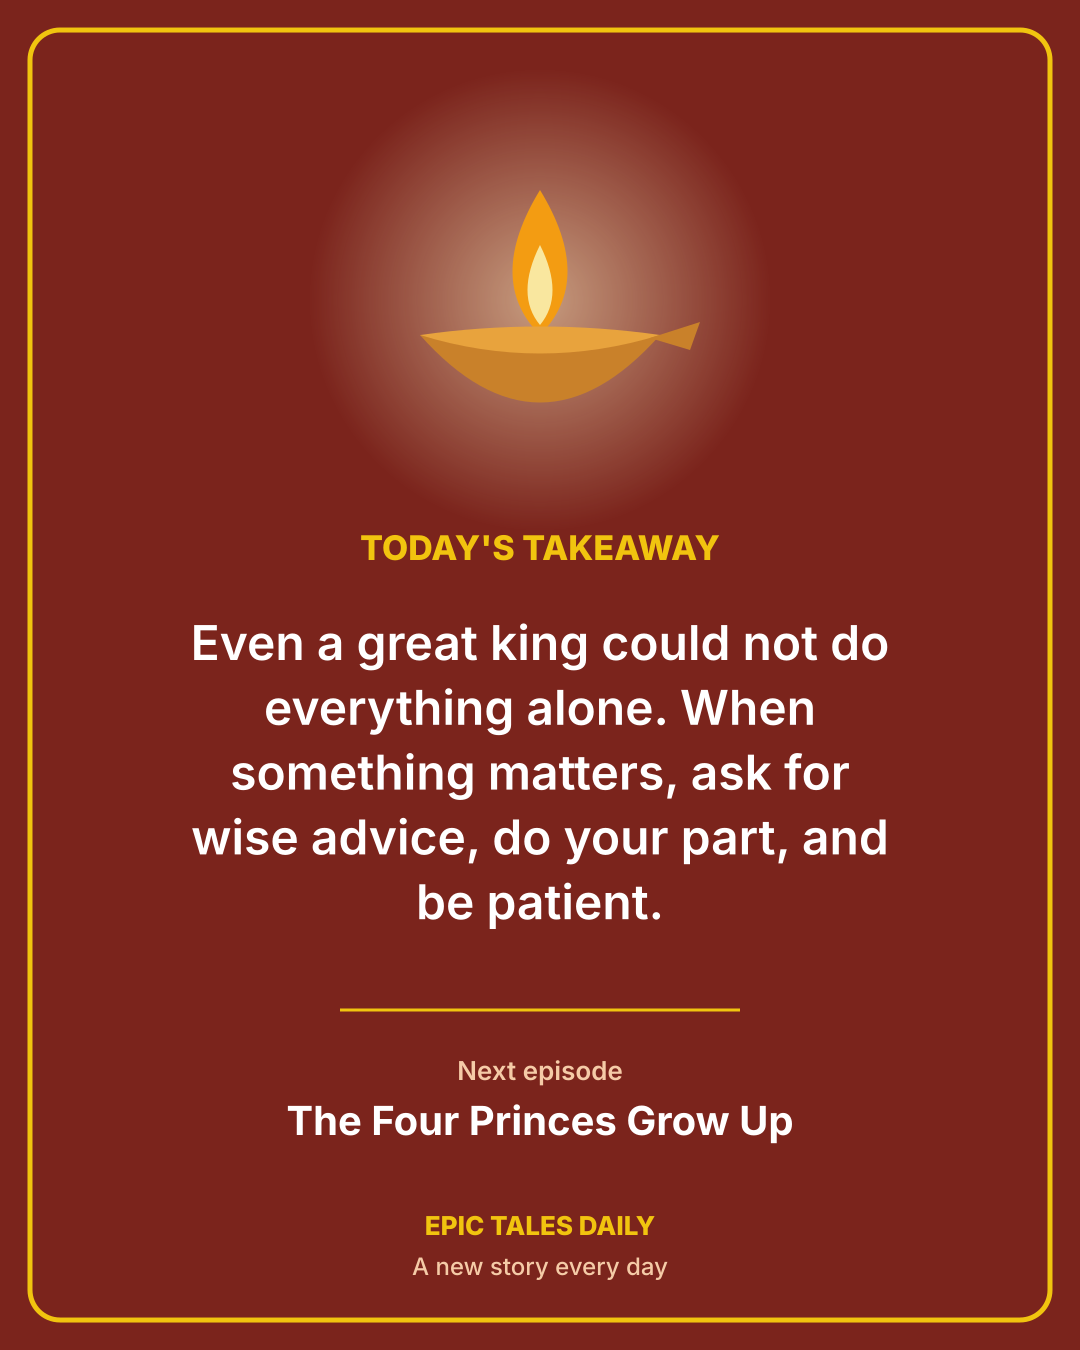
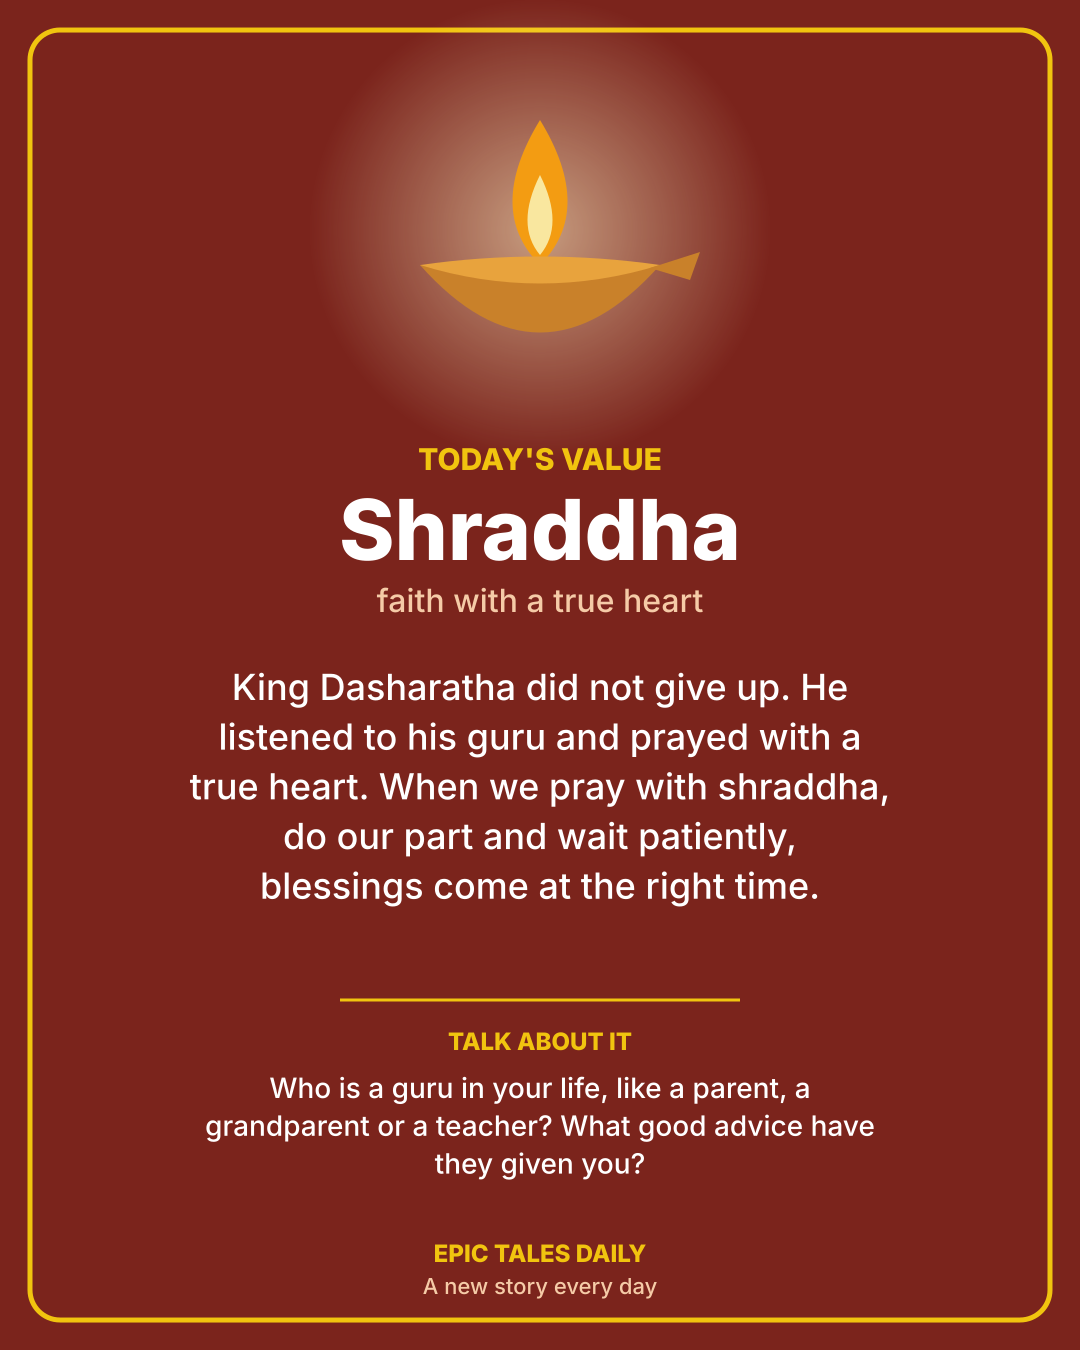
Episode 1: teach a named Hindu value with a question for children
The closing lesson is now 'Today's value: Shraddha', written for children,
with a 'Talk about it' question. The publisher and the social closing card
use the new fields.

Claude-Session: https://claude.ai/code/session_015fo28Ltu1MvLdBiUU7PubM

Changed region(s): [[0.1833, 0.0311, 0.825, 0.6844], [0.1833, 0.7467, 0.7944, 0.8711], [0.3667, 0.9022, 0.6111, 0.9644]]

diff --git a/tools/draw_ep001.py b/tools/draw_ep001.py
@@ -180,12 +180,15 @@ def card(n,total,scene,caption):
     return '\n'.join(P)
 def lastcard(total):
     P=[f'<svg xmlns="http://www.w3.org/2000/svg" width="{W}" height="{H}" viewBox="0 0 {W} {H}">',DEFS,f'<rect width="{W}" height="{H}" fill="#7b241c"/><rect x="30" y="30" width="1020" height="1290" rx="30" fill="none" stroke="#f1c40f" stroke-width="5"/>']
-    P.append('<circle cx="540" cy="300" r="230" fill="url(#glow)" opacity="0.6"/><path d="M540,190 Q485,280 540,335 Q595,280 540,190 Z" fill="#f39c12"/><path d="M540,245 Q515,295 540,325 Q565,295 540,245 Z" fill="#f9e79f"/><path d="M420,335 Q540,470 660,335 Z" fill="#c9812a"/><path d="M420,335 Q540,372 660,335 Q540,318 420,335 Z" fill="#e8a33d"/><path d="M650,338 L700,322 L690,350 Z" fill="#c9812a"/>')
-    P.append(T(540,560,["TODAY'S TAKEAWAY"],34,"#f1c40f","800","middle"))
-    P.append(T(540,660,textwrap.wrap("Even a great king could not do everything alone. When something matters, ask for wise advice, do your part, and be patient.",30),48,"#fff","600","middle",1.35))
-    P.append('<line x1="340" y1="1010" x2="740" y2="1010" stroke="#f1c40f" stroke-width="3"/>')
-    P.append(T(540,1080,["Next episode"],26,"#f5cba7","600","middle")+T(540,1135,["The Four Princes Grow Up"],40,"#fff","700","middle"))
-    P.append(T(540,1235,[SERIES],26,"#f1c40f","800","middle")+T(540,1275,["A new story every day"],24,"#f5cba7","500","middle")+'</svg>')
+    P.append('<g transform="translate(0,-70)"><circle cx="540" cy="300" r="230" fill="url(#glow)" opacity="0.6"/><path d="M540,190 Q485,280 540,335 Q595,280 540,190 Z" fill="#f39c12"/><path d="M540,245 Q515,295 540,325 Q565,295 540,245 Z" fill="#f9e79f"/><path d="M420,335 Q540,470 660,335 Z" fill="#c9812a"/><path d="M420,335 Q540,372 660,335 Q540,318 420,335 Z" fill="#e8a33d"/><path d="M650,338 L700,322 L690,350 Z" fill="#c9812a"/></g>')
+    P.append(T(540,470,["TODAY'S VALUE"],30,"#f1c40f","800","middle"))
+    P.append(T(540,560,["Shraddha"],84,"#fff","800","middle"))
+    P.append(T(540,612,["faith with a true heart"],32,"#f5cba7","500","middle"))
+    P.append(T(540,700,textwrap.wrap("King Dasharatha did not give up. He listened to his guru and prayed with a true heart. When we pray with shraddha, do our part and wait patiently, blessings come at the right time.",40),36,"#fff","500","middle",1.38))
+    P.append('<line x1="340" y1="1000" x2="740" y2="1000" stroke="#f1c40f" stroke-width="3"/>')
+    P.append(T(540,1050,["TALK ABOUT IT"],24,"#f1c40f","800","middle"))
+    P.append(T(540,1098,textwrap.wrap("Who is a guru in your life, like a parent, a grandparent or a teacher? What good advice have they given you?",50),28,"#fff","500","middle",1.35))
+    P.append(T(540,1262,[SERIES],24,"#f1c40f","800","middle")+T(540,1294,["A new story every day"],22,"#f5cba7","500","middle")+'</svg>')
     return '\n'.join(P)
 
 EP=[(s1,"Long ago, on the banks of the river Sarayu, stood the golden city of Ayodhya."),

diff --git a/tools/publish.py b/tools/publish.py
@@ -52,7 +52,12 @@ def build_html(d, ep):
         )
         if i < len(ep["captions"]):
             parts.append(f"<p>{html.escape(cap)}</p>")
-    parts.append(f"<h3>Today's takeaway</h3><p>{html.escape(ep['takeaway'])}</p>")
+    if ep.get("value_name"):
+        parts.append(f"<h3>Today's value: {html.escape(ep['value_name'])} ({html.escape(ep['value_meaning'])})</h3>")
+        parts.append(f"<p>{html.escape(ep['lesson'])}</p>")
+        parts.append(f"<p><strong>Talk about it:</strong> {html.escape(ep['question'])}</p>")
+    else:
+        parts.append(f"<h3>Today's takeaway</h3><p>{html.escape(ep['takeaway'])}</p>")
     if ep.get("next"):
         parts.append(f"<p><em>Next episode: {html.escape(ep['next'])}</em></p>")
     return "\n".join(parts)
